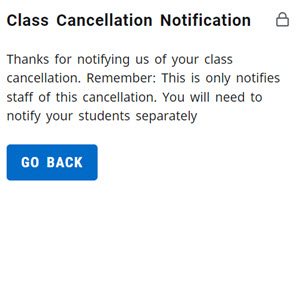
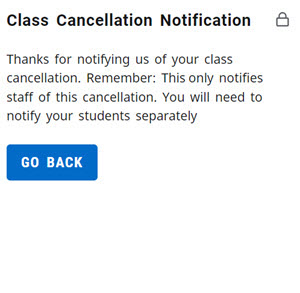
Default Text Update

Changed region(s): [[0.63, 0.2457, 0.93, 0.3072]]

diff --git a/src/cards/ClassCancellation.jsx b/src/cards/ClassCancellation.jsx
@@ -199,7 +199,7 @@ const ClassCancellationNotificationCard = (props) => {
             {person && submitted &&
                 <>
                     <Typography>
-                        {submitText ? submitText : 'Thanks for notifying us of your class cancellation. Remember: This is only notifies staff of this cancellation. You will need to notify your students separately'}
+                        {submitText ? submitText : 'Thanks for notifying us of your class cancellation. Remember: This only notifies staff of this cancellation. You will need to notify your students separately'}
                     </Typography>
                     <br />
                     <Button onClick={resetForm}>Go Back</Button>
